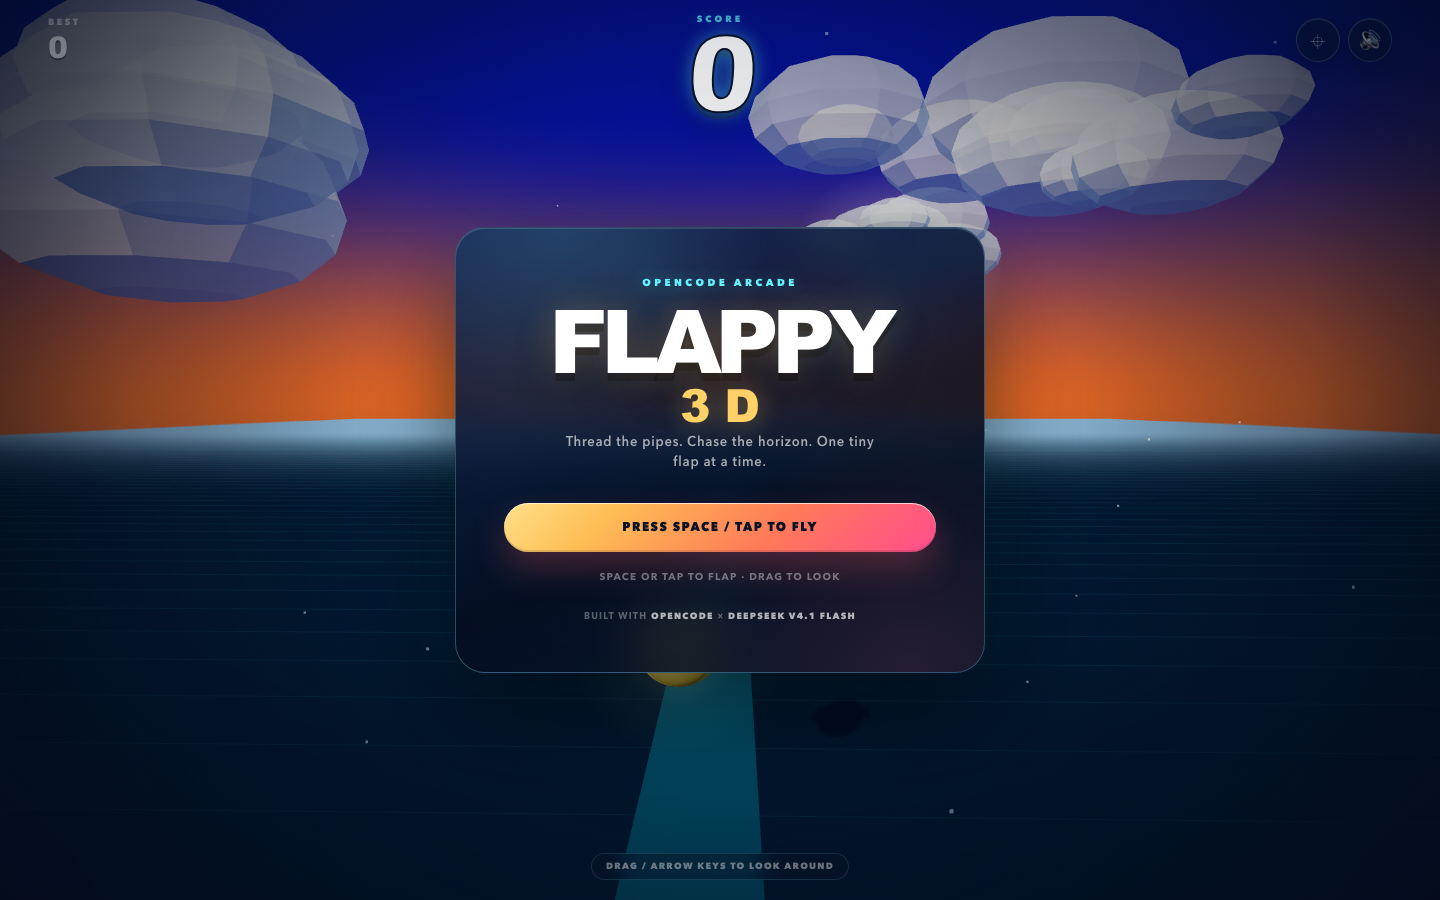
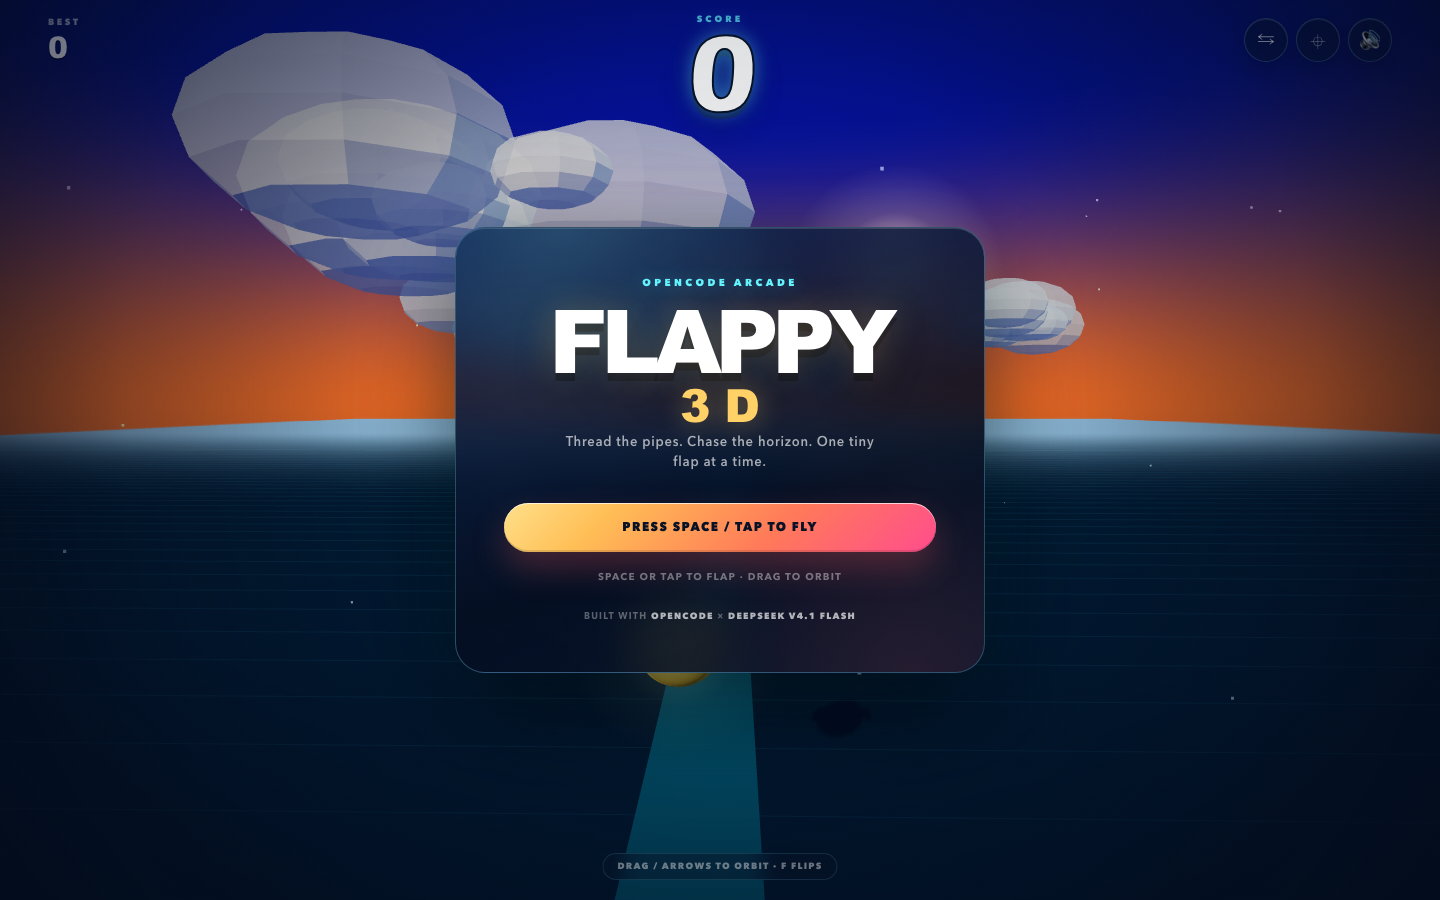
Add side-view orbit and flip controls

diff --git a/index.html b/index.html
@@ -157,7 +157,8 @@
     }
 
     #sound,
-    #recenter {
+    #recenter,
+    #flipView {
       pointer-events: auto;
       width: 44px;
       height: 44px;
@@ -175,13 +176,15 @@
     }
 
     #sound:hover,
-    #recenter:hover {
+    #recenter:hover,
+    #flipView:hover {
       transform: scale(1.06);
       background: rgba(14, 38, 72, 0.72);
     }
 
     #sound:active,
-    #recenter:active {
+    #recenter:active,
+    #flipView:active {
       transform: scale(0.96);
     }
 
@@ -358,7 +361,8 @@
 
     button.primary:focus-visible,
     #sound:focus-visible,
-    #recenter:focus-visible {
+    #recenter:focus-visible,
+    #flipView:focus-visible {
       outline: 2px solid var(--cyan);
       outline-offset: 3px;
     }
@@ -534,6 +538,18 @@
         font-size: clamp(50px, 18vw, 76px);
       }
 
+      .hud-block.right {
+        gap: 4px;
+      }
+
+      #sound,
+      #recenter,
+      #flipView {
+        width: 36px;
+        height: 36px;
+        font-size: 15px;
+      }
+
       .card {
         border-radius: 24px;
         padding: 28px 22px;
@@ -619,12 +635,13 @@
         <div id="score">0</div>
       </div>
       <div class="hud-block right">
+        <button id="flipView" type="button" aria-label="Flip side view" title="Flip side view (F)">⇆</button>
         <button id="recenter" type="button" aria-label="Recenter view" title="Recenter view (R)">⌖</button>
         <button id="sound" type="button" aria-label="Toggle sound" title="Toggle sound">🔊</button>
       </div>
     </header>
 
-    <div id="lookHint" class="look-hint" aria-hidden="true">Drag / arrow keys to look around</div>
+    <div id="lookHint" class="look-hint" aria-hidden="true">Drag / arrows to orbit · F flips</div>
 
     <section id="menu" class="overlay" aria-label="Start screen">
       <div class="card menu-card">
@@ -632,7 +649,7 @@
         <h1>FLAPPY<span>3D</span></h1>
         <p class="tagline">Thread the pipes. Chase the horizon. One tiny flap at a time.</p>
         <button id="startBtn" class="primary" type="button">Press Space / Tap to Fly</button>
-        <p class="hint">Space or tap to flap · drag to look</p>
+        <p class="hint">Space or tap to flap · drag to orbit</p>
         <p class="credits">Built with <strong>OpenCode</strong> × <strong>DeepSeek V4.1 Flash</strong></p>
       </div>
     </section>
@@ -653,7 +670,7 @@
         </div>
         <div id="newBest" class="badge hidden">New Best!</div>
         <button id="restartBtn" class="primary" type="button">Tap / Press Space to Restart</button>
-        <p class="hint">Drag to look · R to recenter</p>
+        <p class="hint">Drag to orbit · R to recenter</p>
       </div>
     </section>
 
@@ -697,6 +714,7 @@
     const flashEl = document.getElementById("flash");
     const soundBtn = document.getElementById("sound");
     const recenterBtn = document.getElementById("recenter");
+    const flipViewBtn = document.getElementById("flipView");
     const lookHint = document.getElementById("lookHint");
     const startBtn = document.getElementById("startBtn");
     const restartBtn = document.getElementById("restartBtn");
@@ -739,8 +757,9 @@
       newBest: false
     };
 
-    const LOOK_YAW_LIMIT = 1.15;
+    const LOOK_YAW_LIMIT = Math.PI;
     const LOOK_PITCH_LIMIT = 0.55;
+    const LOOK_SIDE_YAW = Math.PI / 2;
     const LOOK_DRAG_YAW = 0.0035;
     const LOOK_DRAG_PITCH = 0.003;
     const LOOK_KEY_YAW = 1.7;
@@ -1638,6 +1657,12 @@
       dismissLookHint();
     }
 
+    function flipView() {
+      const isRightSide = Math.abs(look.targetYaw - LOOK_SIDE_YAW) < 0.35;
+      look.targetYaw = isRightSide ? -LOOK_SIDE_YAW : LOOK_SIDE_YAW;
+      dismissLookHint();
+    }
+
     function updateLookFromKeys(delta) {
       let changed = false;
 
@@ -1838,16 +1863,22 @@
       const shake = state.crashShake * 0.34;
       state.crashShake = Math.max(0, state.crashShake - delta * 1.7);
 
-      camera.position.x = 0.7 + (Math.random() - 0.5) * shake;
-      camera.position.y =
-        3.35 +
-        bird.position.y * 0.32 +
-        (Math.random() - 0.5) * shake;
-      camera.position.z = 9.5 + (Math.random() - 0.5) * shake * 0.45;
+      // Orbit the camera around the bird. At yaw 0 this is the familiar
+      // over-the-shoulder chase view; ±90° gives a side profile and 180°
+      // gives a front-on view.
+      const orbitSin = Math.sin(look.yaw);
+      const orbitCos = Math.cos(look.yaw);
+      const orbitX = 0.7 * orbitCos + 9.5 * orbitSin;
+      const orbitZ = -0.7 * orbitSin + 9.5 * orbitCos;
+      const focusY = 0.9 + bird.position.y * 0.32;
+
+      camera.position.x = orbitX + (Math.random() - 0.5) * shake;
+      camera.position.y = focusY + 2.45 + (Math.random() - 0.5) * shake;
+      camera.position.z = orbitZ + (Math.random() - 0.5) * shake * 0.45;
 
       const lookDistance = 28;
       const lookPitchCos = Math.cos(look.pitch);
-      const lookX = Math.sin(look.yaw) * lookDistance * lookPitchCos;
+      const lookX = -Math.sin(look.yaw) * lookDistance * lookPitchCos;
       const lookY =
         0.92 +
         bird.position.y * 0.22 +
@@ -1882,6 +1913,12 @@
         if (event.code === "KeyR") {
           event.preventDefault();
           resetLook();
+          return;
+        }
+
+        if (event.code === "KeyF") {
+          event.preventDefault();
+          flipView();
           return;
         }
 
@@ -2056,6 +2093,11 @@
       resetLook();
     });
 
+    flipViewBtn.addEventListener("click", (event) => {
+      event.stopPropagation();
+      flipView();
+    });
+
     document.addEventListener("visibilitychange", () => {
       if (document.hidden) {
         lookKeys.clear();
@@ -2105,6 +2147,7 @@
       flap,
       crash,
       resetLook,
+      flipView,
       state,
       look,
       get score() {

diff --git a/README.md b/README.md
@@ -25,18 +25,19 @@ Three.js is loaded from jsDelivr, so the first load needs an internet connection
 | --- | --- |
 | `Space` | Flap |
 | Click / tap | Flap |
-| Drag | Look left / right / up / down |
-| `ArrowLeft` / `ArrowRight` / `ArrowUp` / `ArrowDown` | Look left / right / up / down |
-| `R` or the crosshair button | Recenter the view |
+| Drag | Orbit left / right and look up / down |
+| `ArrowLeft` / `ArrowRight` / `ArrowUp` / `ArrowDown` | Orbit left / right and look up / down |
+| `F` or the flip button | Flip between the left and right side views |
+| `R` or the crosshair button | Recenter behind the bird |
 | Click / tap after a crash | Restart |
 | Sound button (top right) | Mute / unmute |
 
-On touch screens, drag with one finger to look around. Tap with a second finger to flap while holding the look drag.
+On touch screens, drag with one finger to orbit the camera. Tap with a second finger to flap while holding the look drag. Drag all the way around to see the bird from the front.
 
 ## Features
 
 - Third-person chase camera behind a glowing, low-poly bird
-- Free-look camera: drag or use the arrow keys to tilt the view left, right, up, or down, with one-key recenter
+- Orbit camera: drag or use the arrow keys to swing around the bird, look up or down, and even see the front view; flip and recenter controls included
 - Endless 3D pipe corridor with textured green cylinders, bright caps, and a soft gap glow
 - Bounding-box collision against pipe geometry and the ground
 - Flap impulse and gravity physics with bird tilt, wing animation, and a gentle camera follow

diff --git a/STATE.md b/STATE.md
@@ -4,8 +4,8 @@
 | --- | --- |
 | Project | Flappy Bird 3D |
 | Started | 2026-10-31 17:03:58 UTC |
-| Completed | 2026-10-31 17:33:24 UTC |
-| Duration | **29m 26s** (1766.0 seconds) |
+| Completed | 2026-10-31 17:46:15 UTC |
+| Duration | **42m 17s** (2537.4 seconds) |
 | Harness | OpenCode 2.2.5 |
 | Model | DeepSeek V4.1 Flash (`opencode-go/deepseek-v4.1-flash`) |
 | Session | `ses_e6d14fab1ffe1Ks130scR0fjdU` |
@@ -16,13 +16,13 @@
 
 | Metric | Tokens |
 | --- | ---: |
-| Input | 42,408 |
-| Output | 44,513 |
-| Reasoning | 73,272 |
-| **Total (input + output + reasoning)** | **160,193** |
-| Cache read | 7,575,168 |
+| Input | 62,247 |
+| Output | 58,500 |
+| Reasoning | 96,571 |
+| **Total (input + output + reasoning)** | **217,318** |
+| Cache read | 14,147,584 |
 | Cache write | 0 |
-| Total including cache | 7,735,361 |
+| Total including cache | 14,364,902 |
 
 > Snapshot taken from the OpenCode session record when the project was packaged. Publishing commands and the final response are outside this snapshot.
 
